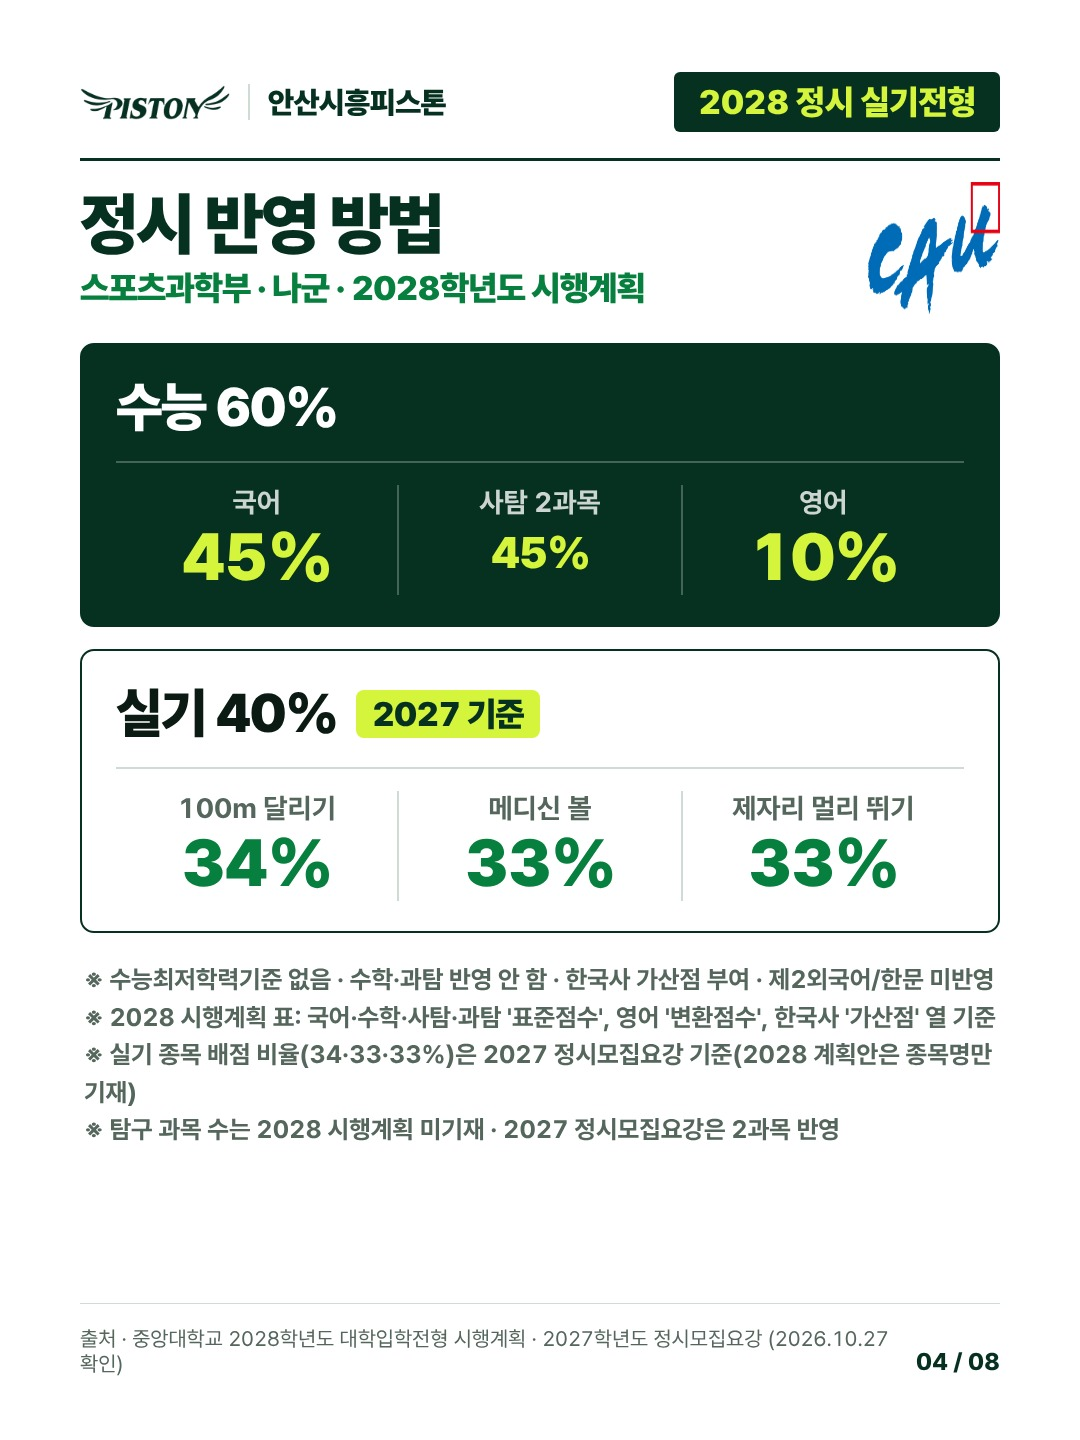
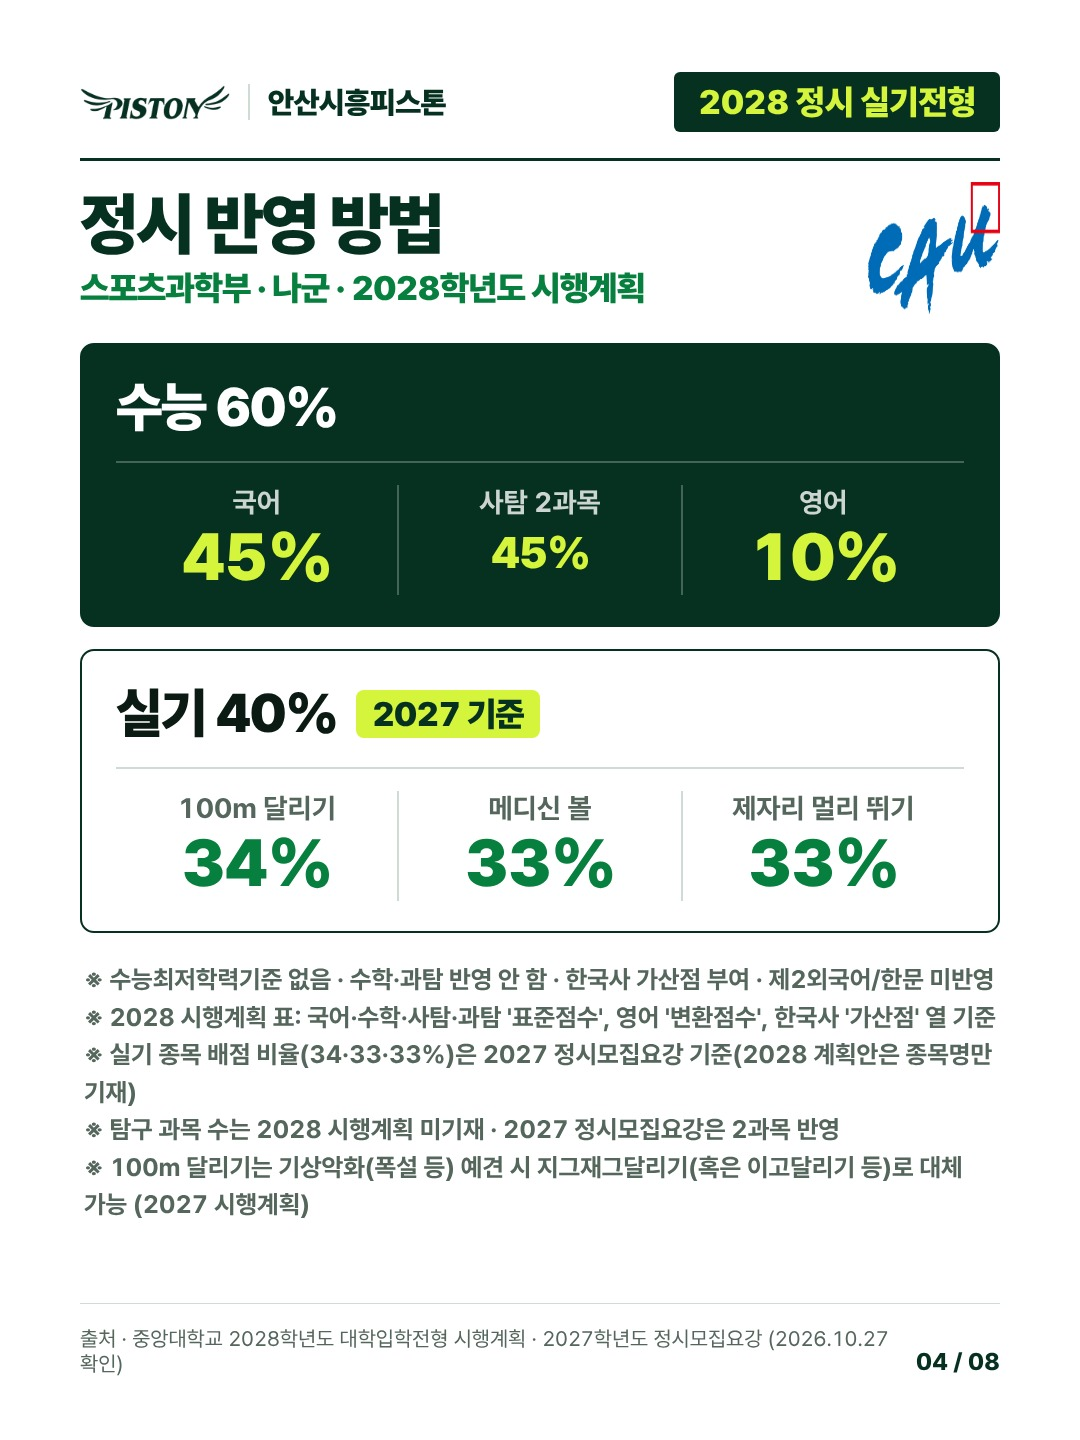
cau: 배점표 그룹 표 디자인, 100m 대체종목 안내; render: grp tables
Claude-Session: https://claude.ai/code/session_01EGTn7G8nWP1yv5M2jqmoFb

Changed region(s): [[0.0917, 0.7812, 0.8861, 0.8438]]

diff --git a/social/out/cau-jeongsi-jeongsi/blog.md b/social/out/cau-jeongsi-jeongsi/blog.md
@@ -34,6 +34,7 @@
 ※ 2028 시행계획 표: 국어·수학·사탐·과탐 '표준점수', 영어 '변환점수', 한국사 '가산점' 열 기준
 ※ 실기 종목 배점 비율(34·33·33%)은 2027 정시모집요강 기준(2028 계획안은 종목명만 기재)
 ※ 탐구 과목 수는 2028 시행계획 미기재 · 2027 정시모집요강은 2과목 반영
+※ 100m 달리기는 기상악화(폭설 등) 예견 시 지그재그달리기(혹은 이고달리기 등)로 대체 가능 (2027 시행계획)
 
 [이미지: post-4.jpg]
 
@@ -55,8 +56,8 @@
 
 [이미지: post-5.jpg]
 
-## 스포츠과학부 배점표 (2027학년도 기준 (2028 계획안에 배점표 없음) · 값은 시작 기록)
-| 점수 | 100m 남(초) | 100m 여(초) | 메디신 점 | 메디신 남(m) | 메디신 여(m) | 제멀 점 | 제멀 남(cm) | 제멀 여(cm) |
+## 스포츠과학부 배점표 (2027학년도 기준 · 값은 시작 기록)
+| 34점 | 남 | 여 | 33점 | 남 | 여 | 33점 | 남 | 여 |
 | --- | --- | --- | --- | --- | --- | --- | --- | --- |
 | 34 | 11.5 이하 | 13.5 이하 | 33 | 12.0 이상 | 9.0 이상 | 33 | 300 이상 | 250 이상 |
 | 33 | 11.51 | 13.51 | 32 | 11.8 | 8.8 | 32 | 298 | 248 |
@@ -93,6 +94,7 @@
 | 2 | 14.61 | 16.61 | 1 | 5.6 | 2.6 | 1 | 236 | 201 |
 | 1 | 14.71 이상 | 16.71 이상 | 0 | 5.6 미만 | 2.6 미만 | 0 | 235 이하 | 200 이하 |
 
+※ 100m 달리기: 기상악화(폭설 등) 예견 시 지그재그달리기(혹은 이고달리기 등)로 대체 (2027 시행계획)
 
 [이미지: post-6.jpg]
 
